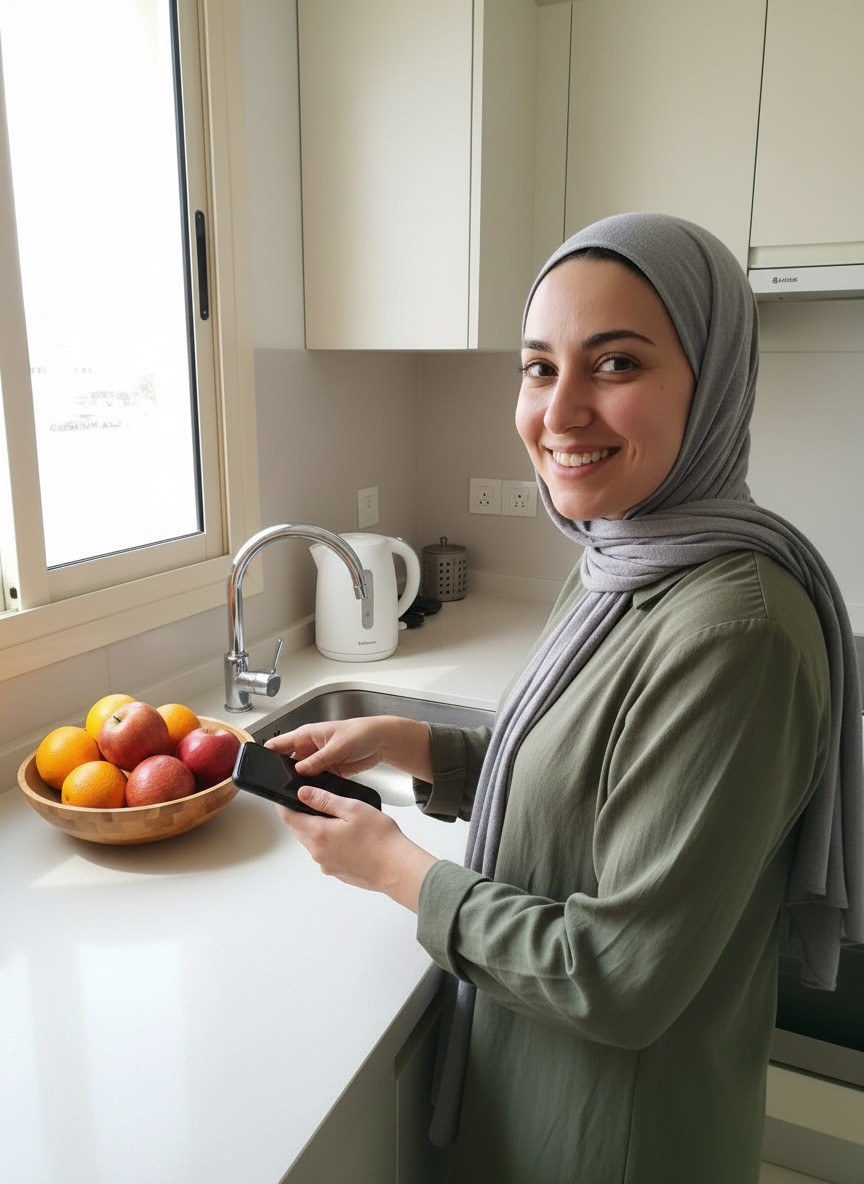
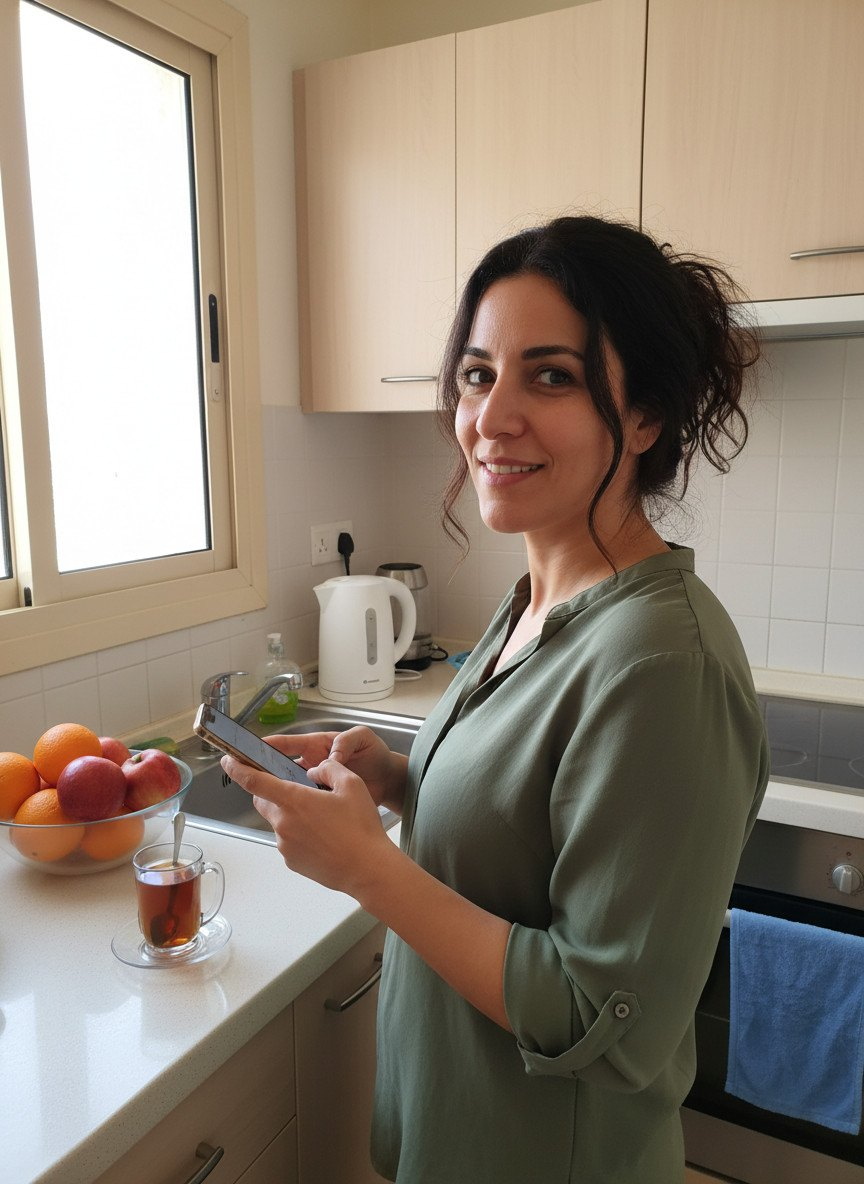
Кадр звонка и Худа: настоящие снимки вместо заглушек, без платков
Кадр в блоке менеджера был заглушкой из экомзи — окно, силуэт, стол и
ноутбук на четырёх span-ах. Заменён двумя снимками: большой кадр менеджера
на всё окно и врезка владельца магазина в правом нижнем углу, как self-view
в звонке. Врезка задана процентами от кадра, поэтому окно можно менять
пропорциями, ничего внутри не пересчитывая. Появилось затемнение по нижнему
краю: плашка «онлайн» держится на белом тексте, а снимок под ней светлый.

role="img" с обёртки снят — у каждого снимка своя подпись. Токены силуэта
(--s10b-head, --s10b-body, --s10b-desk-*) удалены вместе с заглушкой,
песочные --s10b-frame-* оставлены подложкой на время загрузки.

Снимок Худы перегенерирован: был в платке, хотя в блоке отзывов его быть
не должно. Сцена, кадрирование и размер прежние — 864x1184.

Все три сняты по тому же регистру, что три существующих отзыва: ровный
дневной свет, обжитая комната, кадр как со смартфона, люди 35-45.

diff --git a/src/css/10b-growth-manager.css b/src/css/10b-growth-manager.css
@@ -16,11 +16,15 @@
    Шапка по центру — как у 02, 05, 06, 08–13; левое выравнивание здесь было бы
    единственным на всю нижнюю половину страницы.
 
-   Мокап — заглушка из экомзи, композиция не тронута: окно, силуэт, стол,
-   ноутбук. Перекрашен в песок страницы, экран ноутбука взял --c-ink-surface-2,
-   кружок аватара — зелёный вместо сине-фиолетового (фиолетового в палитре
-   нет вовсе). Все размеры в процентах от кадра, поэтому кадр можно менять
-   пропорциями, ничего внутри не пересчитывая.
+   Кадр звонка был заглушкой из экомзи — окно, силуэт, стол и ноутбук на
+   четырёх span-ах. Заменён двумя снимками: большим кадром менеджера и
+   врезкой владельца магазина в правом нижнем углу, как self-view в звонке.
+   Врезка задана процентами от кадра, поэтому окно можно менять пропорциями,
+   ничего внутри не пересчитывая.
+
+   Песочные токены --s10b-frame-* и --s10b-portrait-* остались подложками:
+   их видно ровно до того, как подъедут снимки. Токены силуэта заглушки
+   убраны вместе с ней.
 
    Мобильный первым. 601 — двe колонки в карточках, 901 — три и цитата в ряд.
    ========================================================================== */
@@ -31,10 +35,6 @@
     --s10b-frame-1: #efe4d5;
     --s10b-frame-2: #d9bd97;
     --s10b-frame-3: #a8845b;
-    --s10b-desk-1:  #a8845b;
-    --s10b-desk-2:  #85643f;
-    --s10b-head:    #8a6a52;
-    --s10b-body:    #bb9a7b;
 
   /* Портрет в цитате теплее кадра: он ближе к зрителю. */
     --s10b-portrait-1: #e6bd8e;
@@ -101,11 +101,14 @@
 }
 
 
-/* --- Кадр (заглушка) --------------------------------------------------------
-   Ни одной картинки: всё лежит на четырёх span-ах и их псевдоэлементах.
+/* --- Кадр звонка ------------------------------------------------------------
+   Здесь была заглушка на CSS: окно, силуэт, стол и ноутбук четырьмя span-ами.
+   Заменена двумя настоящими снимками — большим кадром менеджера и врезкой
+   владельца магазина, как в интерфейсе видеозвонка.
+
    Пропорция 2.3/1 из исходника — на телефоне она вырождается в полоску,
-   поэтому там 4/3, а ноутбук прячется (в узкий кадр он не помещается,
-   не наезжая на силуэт).
+   поэтому там 4/3. Градиент остался подложкой: он виден ровно до того, как
+   подъедет снимок, и держит цвет вместо серого прямоугольника.
    -------------------------------------------------------------------------- */
 .s-10b__mock {
     position: relative;
@@ -121,101 +124,48 @@
     box-shadow: var(--sh-card);
 }
 
-/* Окно слева: светлая плоскость, источник света в кадре. */
-.s-10b__mock-win {
+/* Большой кадр. Снимок горизонтальный 1400x608, окно на телефоне почти
+   квадратное — обрезается по бокам, человек в кадре правее центра, поэтому
+   сдвиг вправо. */
+.s-10b__mock-feed {
     position: absolute;
-    left: 8%;
-    top: 10%;
-    width: 26%;
-    height: 70%;
-    border-radius: 8px;
-    background: linear-gradient(180deg,
-        rgba(255, 255, 255, 0.7),
-        rgba(255, 255, 255, 0.35));
-    opacity: 0.6;
-}
-
-/* Силуэт: голова кружком, плечи аркой. Арка построена на двух радиусах,
-   как михрабная арка страницы, — только положе. */
-.s-10b__mock-person {
-    position: absolute;
-    left: 38%;
-    bottom: 0;
-    width: 26%;
-    height: 82%;
-}
-
-.s-10b__mock-person::before {
-    content: '';
-    position: absolute;
-    left: 50%;
-    top: 0;
-    transform: translateX(-50%);
-    width: 36%;
-    aspect-ratio: 1;
-    border-radius: 50%;
-    background: var(--s10b-head);
-}
-
-.s-10b__mock-person::after {
-    content: '';
-    position: absolute;
-    left: 50%;
-    top: 36%;
-    transform: translateX(-50%);
+    inset: 0;
     width: 100%;
-    height: 70%;
-    border-radius: 45% 45% 0 0 / 40% 40% 0 0;
-    background: var(--s10b-body);
+    height: 100%;
+    object-fit: cover;
+    object-position: 64% 40%;
 }
 
-.s-10b__mock-desk {
+/* Врезка со вторым участником — правый нижний угол, как self-view в звонке.
+   Ширина в процентах от кадра: окно резиновое, и врезка обязана ехать с ним.
+   Светлая кромка отделяет её от кадра, тень задаёт слой поверх. */
+.s-10b__mock-self {
     position: absolute;
-    left: 0;
-    right: 0;
-    bottom: 0;
-    height: 22%;
-    background: linear-gradient(180deg, var(--s10b-desk-1), var(--s10b-desk-2));
-}
-
-/* Ноутбук со звонком. Кружок аватара — зелёный градиент вместо мятно-
-   фиолетового из исходника: фиолетового в палитре нет, а зелёный здесь
-   единственное цветное пятно кадра и работает точкой внимания. */
-.s-10b__mock-call {
-    position: absolute;
-    right: 9%;
-    bottom: 24%;
-    display: grid;
-    place-items: center;
-    width: 22%;
-    aspect-ratio: 16 / 10;
+    z-index: 2;
+    right: 3.5%;
+    bottom: 7%;
+    width: 30%;
+    max-width: 260px;
+    aspect-ratio: 4 / 3;
+    object-fit: cover;
+    border: 2px solid rgba(255, 255, 255, 0.85);
     border-radius: 10px;
-    background: var(--c-ink-surface-2);
-    box-shadow: 0 20px 40px rgba(43, 38, 33, 0.35);
+    box-shadow: 0 12px 28px rgba(43, 38, 33, 0.32);
 }
 
-.s-10b__mock-call i {
-    width: 38%;
-    aspect-ratio: 1;
-    border-radius: 50%;
-    background: linear-gradient(135deg, var(--c-green-bright), var(--c-green));
-}
-
-/* Подставка ноутбука */
-.s-10b__mock-call::after {
+/* Затемнение по нижнему краю. Плашка «онлайн» держится на белом тексте, а
+   кадр под ней светлый — без подложки надпись пропадает. */
+.s-10b__mock::after {
     content: '';
     position: absolute;
-    left: 50%;
-    bottom: 8%;
-    transform: translateX(-50%);
-    width: 34%;
-    height: 8%;
-    border-radius: var(--r-pill);
-    background: rgba(255, 255, 255, 0.35);
+    inset: 0;
+    z-index: 1;
+    pointer-events: none;
+    background: linear-gradient(0deg, rgba(28, 25, 22, 0.42) 0%, transparent 34%);
 }
 
-/* Плашка «онлайн» — она же и в цитате, потому оформление вынесено сюда
-   один раз, а различия по размеру описаны у .s-10b__badge. */
+/* Плашка «онлайн». Оформление то же, что у .s-10b__badge в цитате, поэтому
+   описано здесь один раз, а различия по размеру — у самого badge. */
 .s-10b__live {
     position: absolute;
     left: 20px;

diff --git a/src/partials/10b-growth-manager.html b/src/partials/10b-growth-manager.html
@@ -26,14 +26,22 @@
       <p class="lead s-10b__lead">Every store comes with a dedicated Growth Manager &mdash; a real person who knows the platform, knows your store and picks up when you call.</p>
     </header>
 
-    <!-- Кадр целиком на CSS. role="img" с подписью закрывает всю внутренность
-         от скринридера: фигуры внутри декоративные, а текст плашки дублирует
-         подпись. -->
-    <div class="s-10b__mock reveal" role="img" aria-label="A store owner on a video call with her Growth Manager">
-      <span class="s-10b__mock-win" aria-hidden="true"></span>
-      <span class="s-10b__mock-person" aria-hidden="true"></span>
-      <span class="s-10b__mock-desk" aria-hidden="true"></span>
-      <span class="s-10b__mock-call" aria-hidden="true"><i></i></span>
+    <!-- Кадр звонка: большой снимок менеджера и врезка владельца магазина в
+         правом нижнем углу — так выглядит окно созвона. Было четыре span-а
+         с фигурами на CSS.
+
+         role="img" на обёртке снят: у каждого снимка теперь своя подпись, и
+         прятать их от скринридера незачем. Плашка «онлайн» декоративная —
+         она дублирует то, что и так сказано в лиде секции. -->
+    <div class="s-10b__mock reveal">
+      <img class="s-10b__mock-feed" src="assets/img/people/call-manager.webp"
+           alt="A Tajiro Growth Manager on a video call from his desk"
+           width="1400" height="608" loading="lazy" decoding="async">
+
+      <img class="s-10b__mock-self" src="assets/img/people/call-user.webp"
+           alt="A Tajiro store owner on the same call"
+           width="640" height="480" loading="lazy" decoding="async">
+
       <span class="s-10b__live" aria-hidden="true">
         <i class="s-10b__live-dot"></i>Your Growth Manager is online
       </span>
